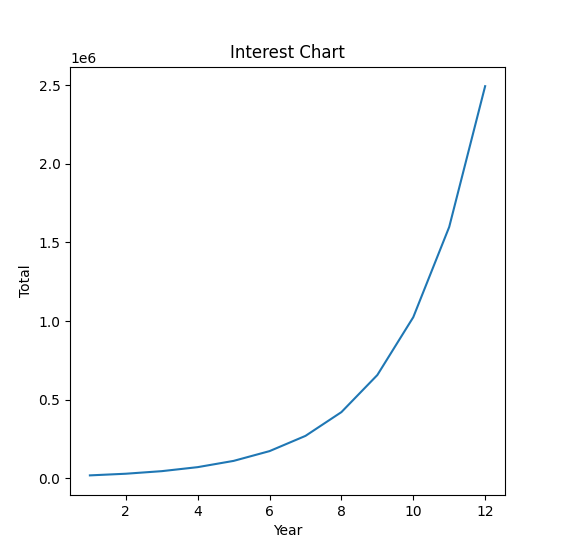
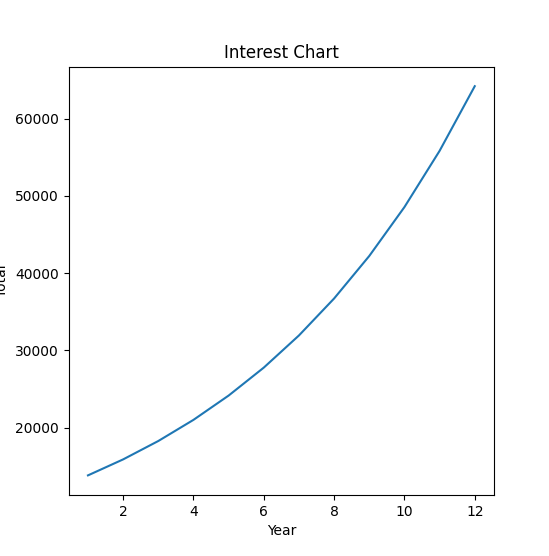
apply styles

diff --git a/main.py b/main.py
@@ -15,6 +15,7 @@ from PyQt5.QtWidgets import (
     QMainWindow,
     QMessageBox,
     QFileDialog,
+    QCheckBox,
 )
 from PyQt5.QtGui import QStandardItemModel, QStandardItem
 
@@ -45,6 +46,8 @@ class FinanceApp(QMainWindow):
         self.clear_button = QPushButton("Clear")
         self.save_button = QPushButton("Save")
 
+        self.dark_mode = QCheckBox("Dark Mode")
+
         self.figure = plt.figure()
         self.canvas = FigureCanvas(self.figure)
 
@@ -60,6 +63,7 @@ class FinanceApp(QMainWindow):
         self.row1.addWidget(self.rate_input)
         self.row1.addWidget(self.years_text)
         self.row1.addWidget(self.years_input)
+        self.row1.addWidget(self.dark_mode)
 
         self.col1.addWidget(self.tree_view)
         self.col1.addWidget(self.calc_button)
@@ -80,6 +84,57 @@ class FinanceApp(QMainWindow):
         self.calc_button.clicked.connect(self.calc_interest)
         self.clear_button.clicked.connect(self.reset)
         self.save_button.clicked.connect(self.save_data)
+        self.dark_mode.stateChanged.connect(self.toggle_mode)
+
+        self.apply_styles()
+
+    def apply_styles(self):
+        self.setStyleSheet(
+            """
+            QMainWindow {
+                background-color: #f0f0f0;
+            }
+            
+            QLabel, QLineEdit, QPushButton {
+                background-color: #f0f0f0;
+            }
+            
+            QTreeView {
+                background-color: #ffffff;
+            }
+            """
+        )
+
+        if self.dark_mode.isChecked():
+            self.setStyleSheet(
+                """
+                QMainWindow {
+                    background-color: #222222;
+                    color: #eeeeee;
+                }
+                
+                QLabel, QLineEdit, QPushButton, QCheckBox {
+                    color: #eeeeee;
+                }
+                
+                QMessageBox QLabel {
+                    color: #333333;
+                }
+                
+                QPushButton{
+                    background-color: #333333;
+                    color: #eeeeee;
+                }
+                
+                QTreeView {
+                    background-color: #444444;
+                    color: #eeeeee;
+                }
+                """
+            )
+
+    def toggle_mode(self):
+        self.apply_styles()
 
     def calc_interest(self):
         initial_investment = None
@@ -91,6 +146,10 @@ class FinanceApp(QMainWindow):
             QMessageBox.warning(self, "Error", "Invalid input, enter a number!")
             return
 
+        self.model.clear()
+
+        self.model.setHorizontalHeaderLabels(["Year", "Total"])
+
         total = initial_investment
         for year in range(1, num_years + 1):
             total += total * (interest_rate / 100)
@@ -100,6 +159,7 @@ class FinanceApp(QMainWindow):
 
         # update chart with data
         self.figure.clear()
+        # plt.style.use("seaborn")♣
         ax = self.figure.subplots()
         years = list(range(1, num_years + 1))
         totals = [
@@ -110,6 +170,7 @@ class FinanceApp(QMainWindow):
         ax.set_title("Interest Chart")
         ax.set_xlabel("Year")
         ax.set_ylabel("Total")
+        self.canvas.draw()
 
     def save_data(self):
         dir_path = QFileDialog.getExistingDirectory(self, "Select Directory")
